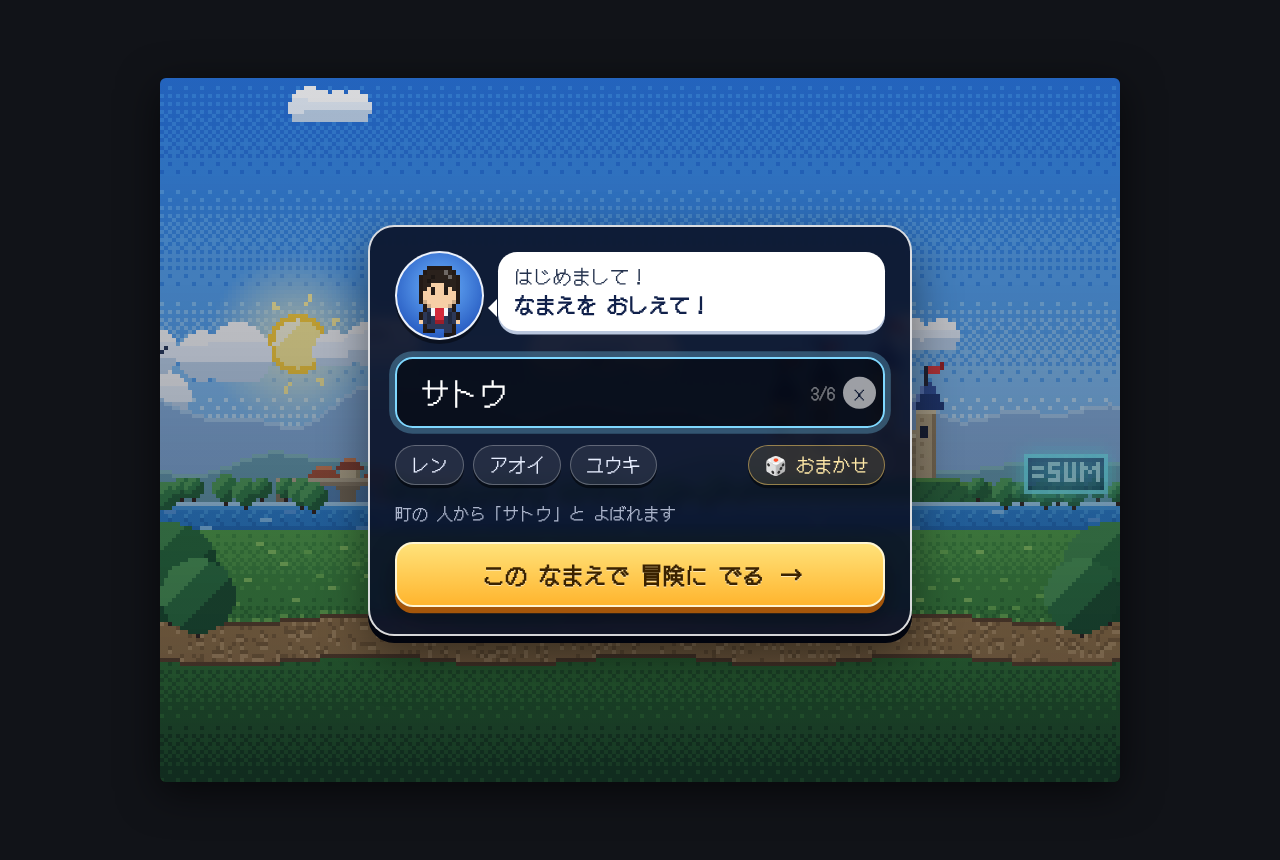
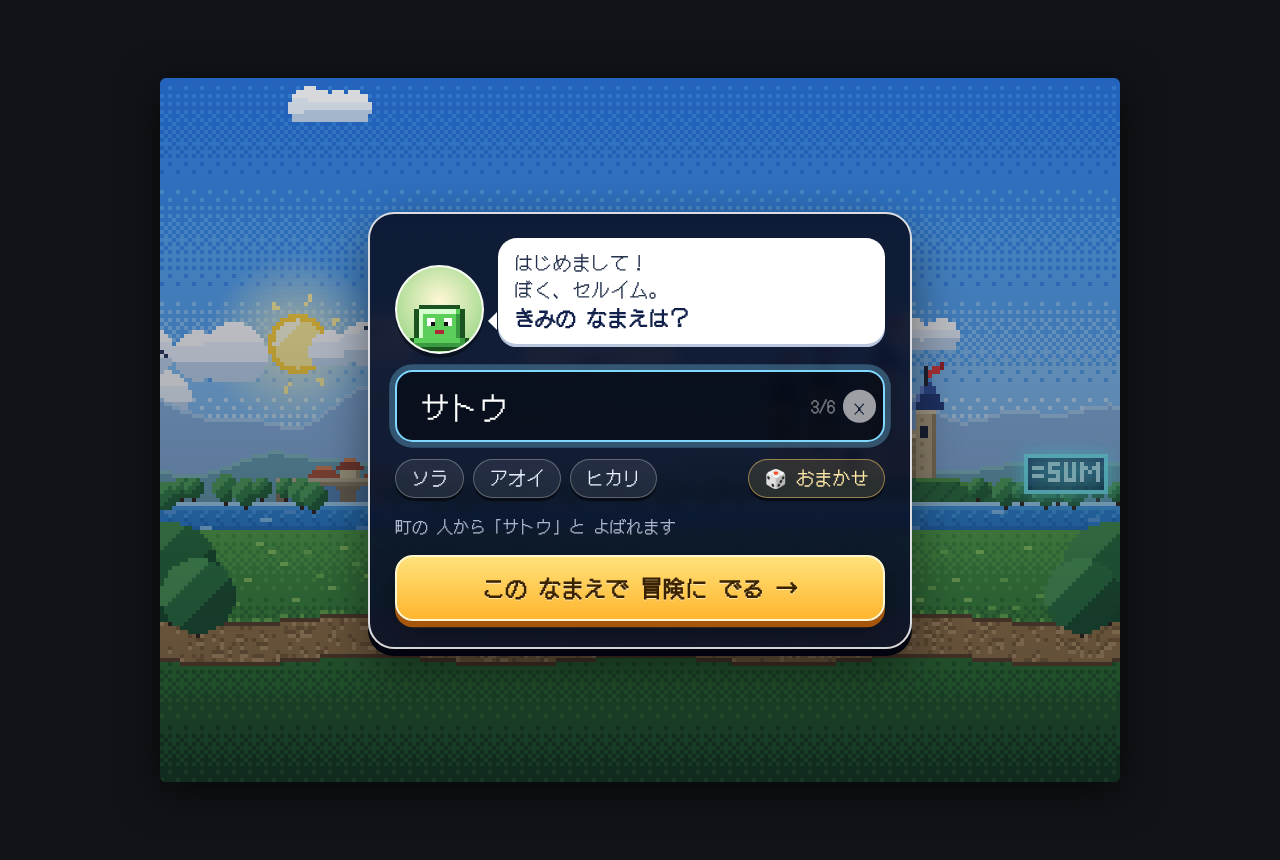
名前入力で 話しかけるのを 主人公から セルイムに（吹き出しの 台詞と 丸枠の 色も 合わせた）
Claude-Session: https://claude.ai/code/session_015p9ip7yEugK56fyZy32YiS

Changed region(s): [[0.2812, 0.2419, 0.7188, 0.786], [0.125, 0.393, 0.1562, 0.4535]]

diff --git a/src/components/Screens.tsx b/src/components/Screens.tsx
@@ -10,7 +10,7 @@ import { isNative } from '../game/native'
 import { isEn, langSwitchVisible, setLang, tr } from '../game/lang'
 import { EN_CHAPTERS } from '../data/en'
 import { CHAPTERS as CHAPTER_DEFS, chapterOpen, chapterTag, totalPercent } from '../data/chapters'
-import { mapName, PLAYER_SPEC } from '../data/maps'
+import { mapName } from '../data/maps'
 import type { GameState } from '../game/types'
 
 type TitleOpt = 'continue' | 'new' | 'study'
@@ -197,7 +197,7 @@ const pickNames = (n: number, not: string[] = []) => {
 }
 
 /**
- * 主人公の 名前を 決める 画面。主人公が 吹き出しで 話しかけ、
+ * 主人公の 名前を 決める 画面。セルイムが 吹き出しで 話しかけ、
  * 入力欄（文字数・× で 消す）・名前の 候補チップ・🎲 おまかせ・大きな 立体ボタンで 決める
  */
 export function NameEntry({ onDone }: { onDone(name: string): void }) {
@@ -246,12 +246,14 @@ export function NameEntry({ onDone }: { onDone(name: string): void }) {
       >
         <div className="ne-guide">
           <div className="ne-hero" aria-hidden="true">
-            <SpriteView spec={PLAYER_SPEC} />
+            <SpriteView creature="celime" />
           </div>
           <p className="ne-bubble">
-            {tr('はじめまして！', 'Nice to meet you!')}
+            {tr('はじめまして！', 'Hi there!')}
             <br />
-            <b>{tr('なまえを おしえて！', "What's your name?")}</b>
+            {tr('ぼく、セルイム。', "I'm Cellime.")}
+            <br />
+            <b>{tr('きみの なまえは？', "What's your name?")}</b>
           </p>
         </div>
         <label className={`ne-field ${ok ? '' : 'empty'}`} ref={fieldRef}>

diff --git a/src/components/NameEntry.css b/src/components/NameEntry.css
@@ -44,7 +44,7 @@
   width: 4.4em;
   height: 4.4em;
   border-radius: 50%;
-  background: radial-gradient(circle at 50% 40%, #6fb6ff 0%, #2a5fc4 75%);
+  background: radial-gradient(circle at 50% 40%, #fff7d6 0%, #9fd88a 80%);
   border: 2px solid rgba(255, 255, 255, 0.9);
   box-shadow: 0 0.2em 0 rgba(0, 0, 0, 0.4);
   overflow: hidden;

diff --git a/docs/evolution-log.md b/docs/evolution-log.md
@@ -25,4 +25,4 @@
 - 2026-11-25 `evolve/2026-11-25-item-bag`：メニューの「どうぐ」を、▶ カーソルで 選ぶ 文字の 一覧から カード式の「もちもの」に 作り直した（スマホ・PC 共通）。上に ❤ の HP カード（バー・「あと◯で まんたん」、少ないと 赤）。どうぐは 絵・名前・金色の 持ち数バッジ・説明の カードで、「🗺 いま つかえる」「⚔ 戦闘で つかう」の 札で どこで 使えるかを 示し、持っていない どうぐも 点線の カードと「🏪 道具屋で 買える」で 見せる。やくそうは 右の 緑の「つかう」ボタン（まんたんの ときは 灰色の「まんたん」）で その場で 使え、回復の 音と 同時に HP バーが のびて カードが 光り「+30」が 浮かび、数字が 弾み、どうぐの 絵から「-1」が 飛ぶ。戦闘用・持っていない・まんたんの ときは カードが 小さく ゆれて 理由を 出す。PC は パネルを 縦に のばして 3枚が 収まるように し、十字ボタン・キーの ときだけ 金色の 枠。なぜ：メニューで ここだけ 古い 文字の 一覧が 残り、どれが フィールドで 使えるのか わからず、やくそうを 使っても 文字が 1行 出るだけで HP が 戻った 手ごたえが なかった。最近の モバイルRPG の もちもの画面の ように、使える ものが ひと目で わかり、使った 瞬間に 回復が 見える 画面に するため（動きを 減らす 設定にも 対応）
 - 2026-11-25 `evolve/2026-11-25-profile-card`：メニューの「つよさ」を、項目名と 数字が 並ぶ 文字の 表から Duolingo 風の プロフィール画面に 作り直した（スマホ・PC 共通）。上に 顔（金色の Lv バッジ付き）・名前・称号の 札・次の レベルまでの 金色バー。その下に 称号の 道のり（新入社員 Lv1 → セル見習い Lv4 → 関数つかい Lv7 の 3つの 丸を 線で つなぎ、いまの 称号は 光の 輪が 広がる、まだの 称号は 🔒）と「🎯 あと レベル 2 で『関数つかい』」。記録は 色つき 丸アイコンの タイル（🔥 れんぞく ふくしゅう〈今日 やったら 炎が ゆれて「✓ 今日も できた」〉・⚡ けいけんち 合計・📜 解決した 悩み 0/81・✨ おぼえた スキル 0/54・👑 たおした ボス 0/9〈🏅 メダル数〉・⚔ 攻撃力〈🛡 守備・⏱ 回答時間〉）で、数字は 0 から 数え上がる。› の 付いた タイルは 押すと 沈み、ふくしゅう・スキル図鑑・たび・そうびへ そのまま 飛べる。いちばん下に 冒険の 達成率の 輪（のびる）。スマホでは コマンドの 窓（とじる まで）を 縮めず、つよさの 中だけ スクロール。なぜ：メニューの ほかの 画面は カード式に なったのに「つよさ」だけ 古い 文字の 表で、HP・ゴールドなど 上の 状態カードと 同じ 数字を くり返す 一方、連続日数・集めた スキル・倒した ボスなど「ここまで やった」記録や 次の 目標が 見えなかった。Duolingo の プロフィールの ように 自分の 成長と 次の 一歩が ひと目で わかり、そこから 次の 行動へ すぐ 進める 方が 続けたくなるため（動きを 減らす 設定にも 対応）
 - 2026-11-25 `evolve/2026-11-25-guided-lesson`：スマホの 依頼画面（ステップ式）を Duolingo の レッスン画面の ように 作り直した。上部は 白枠の「あきらめる」ボタンと 黒い 帯から、丸い × ボタン・1本の つながった 緑の 進み具合バー（ツヤつき、正解で のびる）・「1/2」に。その下に「📜 依頼」の 札・題名・「◯◯より」と「📋 やること」ボタン（開くと 番号の 丸つきの カードが 落ちてくる）。問題の カードは 角の 丸い シートが 表の 上に 重なる 形で、「えらぶ／数式を 作る」の 札・金色の ヒントボタン・白く 大きく した 問題文。選択肢は 番号の 札つきの 立体ボタン（押すと 沈む、上から 順に すべり込む、短い ときは 2列）で、正解は 緑に なって ✓付きで はね、ほかは うすく なる。まちがいは 赤く ゆれてから 線が 引かれ、PC の 依頼と 同じ 赤い 知らせカード（おしい！／もう一息！／あきらめないで！）、2回 まちがえると「💡 ヒントを 見てみる？」。正解すると 画面の 下から 緑の 判定シート（✓ の 丸・せいかい！・解説・大きな「つづける」）が すべり出て、1回も まちがえずに 当てたら「⚡ 一発正解」の 札。数式を 作る ステップの「入れる」ボタンも 立体に。タブレットでは 中身を 読みやすい 幅に まとめた。なぜ：スマホで いちばん 長く いる 依頼画面だけ、平たい 箱の 選択肢・区切りの 細い バー・文字の 箱の 判定の ままで、ふくしゅうや 戦闘に 入れた「押した 手ごたえ」と 決まった 位置の「つづける」が 無かった。親指の 届く 下に 判定と 次への ボタンが 毎回 同じ 形で 出る 方が テンポよく 進められ、まちがえても 次の 一手（ヒント）が すぐ わかるため（動きを 減らす 設定にも 対応）
-- 2026-11-25 `evolve/2026-11-25-name-entry`：はじめての 人が 最初に 触る「名前入力」を、黒い 箱と 白枠の 入力欄から オンボーディング カードに 作り直した（スマホ・PC 共通）。丸い 枠の 主人公（足踏み）が 吹き出しで「はじめまして！ なまえを おしえて！」と 話しかけ、入力欄には 文字数（3/6）と × で 消す ボタン、下に 名前の 候補チップ 3つと「🎲 おまかせ」、「町の 人から『◯◯』と よばれます」の 予告、タイトルと おそろいの 金色の 立体ボタン「この なまえで 冒険に でる →」。空のときは 赤枠と 案内を 出し、決定すると 入力欄が ぷるっと ゆれる。なぜ：Duolingo などの 最新アプリは 最初の 画面で キャラが 話しかけ、迷わず 1タップで 進める。冒険の 第一印象を 良くし、名前に 迷って 止まる 人を 減らすため
+- 2026-11-25 `evolve/2026-11-25-name-entry`：はじめての 人が 最初に 触る「名前入力」を、黒い 箱と 白枠の 入力欄から オンボーディング カードに 作り直した（スマホ・PC 共通）。丸い 枠の セルイム（足踏み）が 吹き出しで「はじめまして！ ぼく、セルイム。きみの なまえは？」と 話しかけ、入力欄には 文字数（3/6）と × で 消す ボタン、下に 名前の 候補チップ 3つと「🎲 おまかせ」、「町の 人から『◯◯』と よばれます」の 予告、タイトルと おそろいの 金色の 立体ボタン「この なまえで 冒険に でる →」。空のときは 赤枠と 案内を 出し、決定すると 入力欄が ぷるっと ゆれる。なぜ：Duolingo などの 最新アプリは 最初の 画面で キャラが 話しかけ、迷わず 1タップで 進める。冒険の 第一印象を 良くし、名前に 迷って 止まる 人を 減らすため
